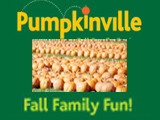
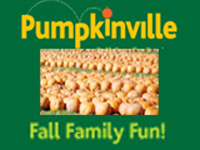
global bug fix 2 and ad resized

diff --git a/game-intermediate/newmain.js b/game-intermediate/newmain.js
@@ -14,9 +14,9 @@ var GridLast = "undefined";
 var halted = "false";
 var imagedata;
 var background;
-var ADwidth = 160;
+var ADwidth = 200;
 var EmptyImage;
-var ADheight = 120;
+var ADheight = 150;
 var bgLoaded = false;
 var validity = true;
 var ADPlacements;
@@ -42,7 +42,7 @@ var TimeLimit = 1000; //in ms
 var intervalHandler;
 var countDownStart; // the time between Jan 1st, 1970 and the start
 var score = 0;
-if(hardness == 1){
+if(hardness == 1||hardness == 2){
  symbolNum = 5;
 // eachGroup = dimension*dimension/symbolNum;
  }
@@ -1310,6 +1310,22 @@ function onloadHelper(event)
    if(hardness==2)
 	args = 2;
 //do{
+
+  if(loopCount>2)
+   {
+	 var havead = document.getElementById("HaveAd");
+	 if(ADPlacements[loopCount-2-1]>0)
+	{
+		havead.value = ADPlacements[loopCount-2-1];
+	}
+	else{
+		havead.value = "0";
+	
+	}
+   
+   
+   }
+    
   enlightPicasso();
  // }
  // while((pairs=countGaps(args))<threshold);

diff --git a/cognitive-easy/cognitive_main.js b/cognitive-easy/cognitive_main.js
@@ -3,8 +3,8 @@ var loopCount = 0;
 //var GridCurrent = "undefined";
 var GridLast = "undefined";
 var halted = "false";
-var ADwidth = 160;
-var ADheight = 120;
+var ADwidth = 200;
+var ADheight = 150;
 var bgLoaded = false;
 var validity = true;
 var ADPlacements;
@@ -1548,7 +1548,7 @@ window.onload = function()
 	}
 	
 	
-//	alert(ADPlacements);
+	alert(ADPlacements);
 
 	contSlot = new Image();
 	DrawWelcome();

diff --git a/game-hard/newmain.js b/game-hard/newmain.js
@@ -1312,6 +1312,22 @@ function onloadHelper(event)
    if(hardness==2)
 	args = 2;
 //do{
+
+  if(loopCount>2)
+   {
+	 var havead = document.getElementById("HaveAd");
+	 if(ADPlacements[loopCount-2-1]>0)
+	{
+		havead.value = ADPlacements[loopCount-2-1];
+	}
+	else{
+		havead.value = "0";
+	
+	}
+   
+   
+   }
+    
   enlightPicasso();
  // }
  // while((pairs=countGaps(args))<threshold);

diff --git a/cognitive-hard/cognitive_main.js b/cognitive-hard/cognitive_main.js
@@ -3,8 +3,8 @@ var loopCount = 0;
 //var GridCurrent = "undefined";
 var GridLast = "undefined";
 var halted = "false";
-var ADwidth = 160;
-var ADheight = 120;
+var ADwidth = 200;
+var ADheight = 150;
 var bgLoaded = false;
 var validity = true;
 var ADPlacements;

diff --git a/game-hard/cognitive_main.js b/game-hard/cognitive_main.js
@@ -3,8 +3,8 @@ var loopCount = 0;
 //var GridCurrent = "undefined";
 var GridLast = "undefined";
 var halted = "false";
-var ADwidth = 160;
-var ADheight = 120;
+var ADwidth = 200;
+var ADheight = 150;
 var bgLoaded = false;
 var validity = true;
 var ADPlacements;

diff --git a/game-easy/newmain.js b/game-easy/newmain.js
@@ -14,9 +14,9 @@ var GridLast = "undefined";
 var halted = "false";
 var imagedata;
 var background;
-var ADwidth = 160;
+var ADwidth = 200;
 var EmptyImage;
-var ADheight = 120;
+var ADheight = 150;
 var bgLoaded = false;
 var validity = true;
 var ADPlacements;
